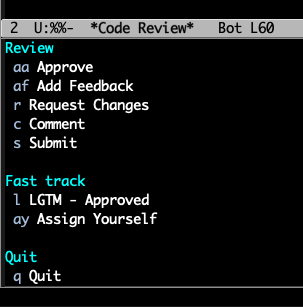
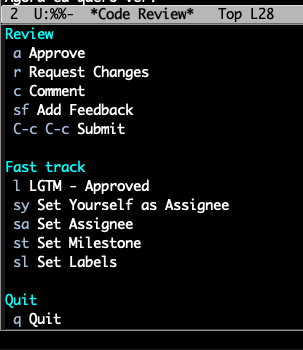
assign milestone

Changed region(s): [[0.0, 0.0, 1.0, 0.7622], [0.0, 0.8208, 1.0, 0.9674]]

diff --git a/README.md b/README.md
@@ -27,6 +27,7 @@ The Emacs everywhere goal continues. These are the main features of
 - Review using single commits to focus on diff
 - Set labels on RET. See details [Multi value selection](./docs/multi-value-selection.md)
 - Set assignee. Use transient `ay` option to `assign yourself` to the PR.
+- Set milestone. See details [push access required](./docs/milestone.md)
 
 
 Missing something? Please, [let us know](https://github.com/wandersoncferreira/code-review/issues/new).

diff --git a/docs/milestone.md b/docs/milestone.md
@@ -1,0 +1,9 @@
+# Milestone
+
+It's possible that your forge requires more grants to allow you to assign milestone to a PR.
+
+
+### Github
+
+NOTE: Only users with push access can set the milestone for issues. The
+milestone is silently dropped otherwise.
